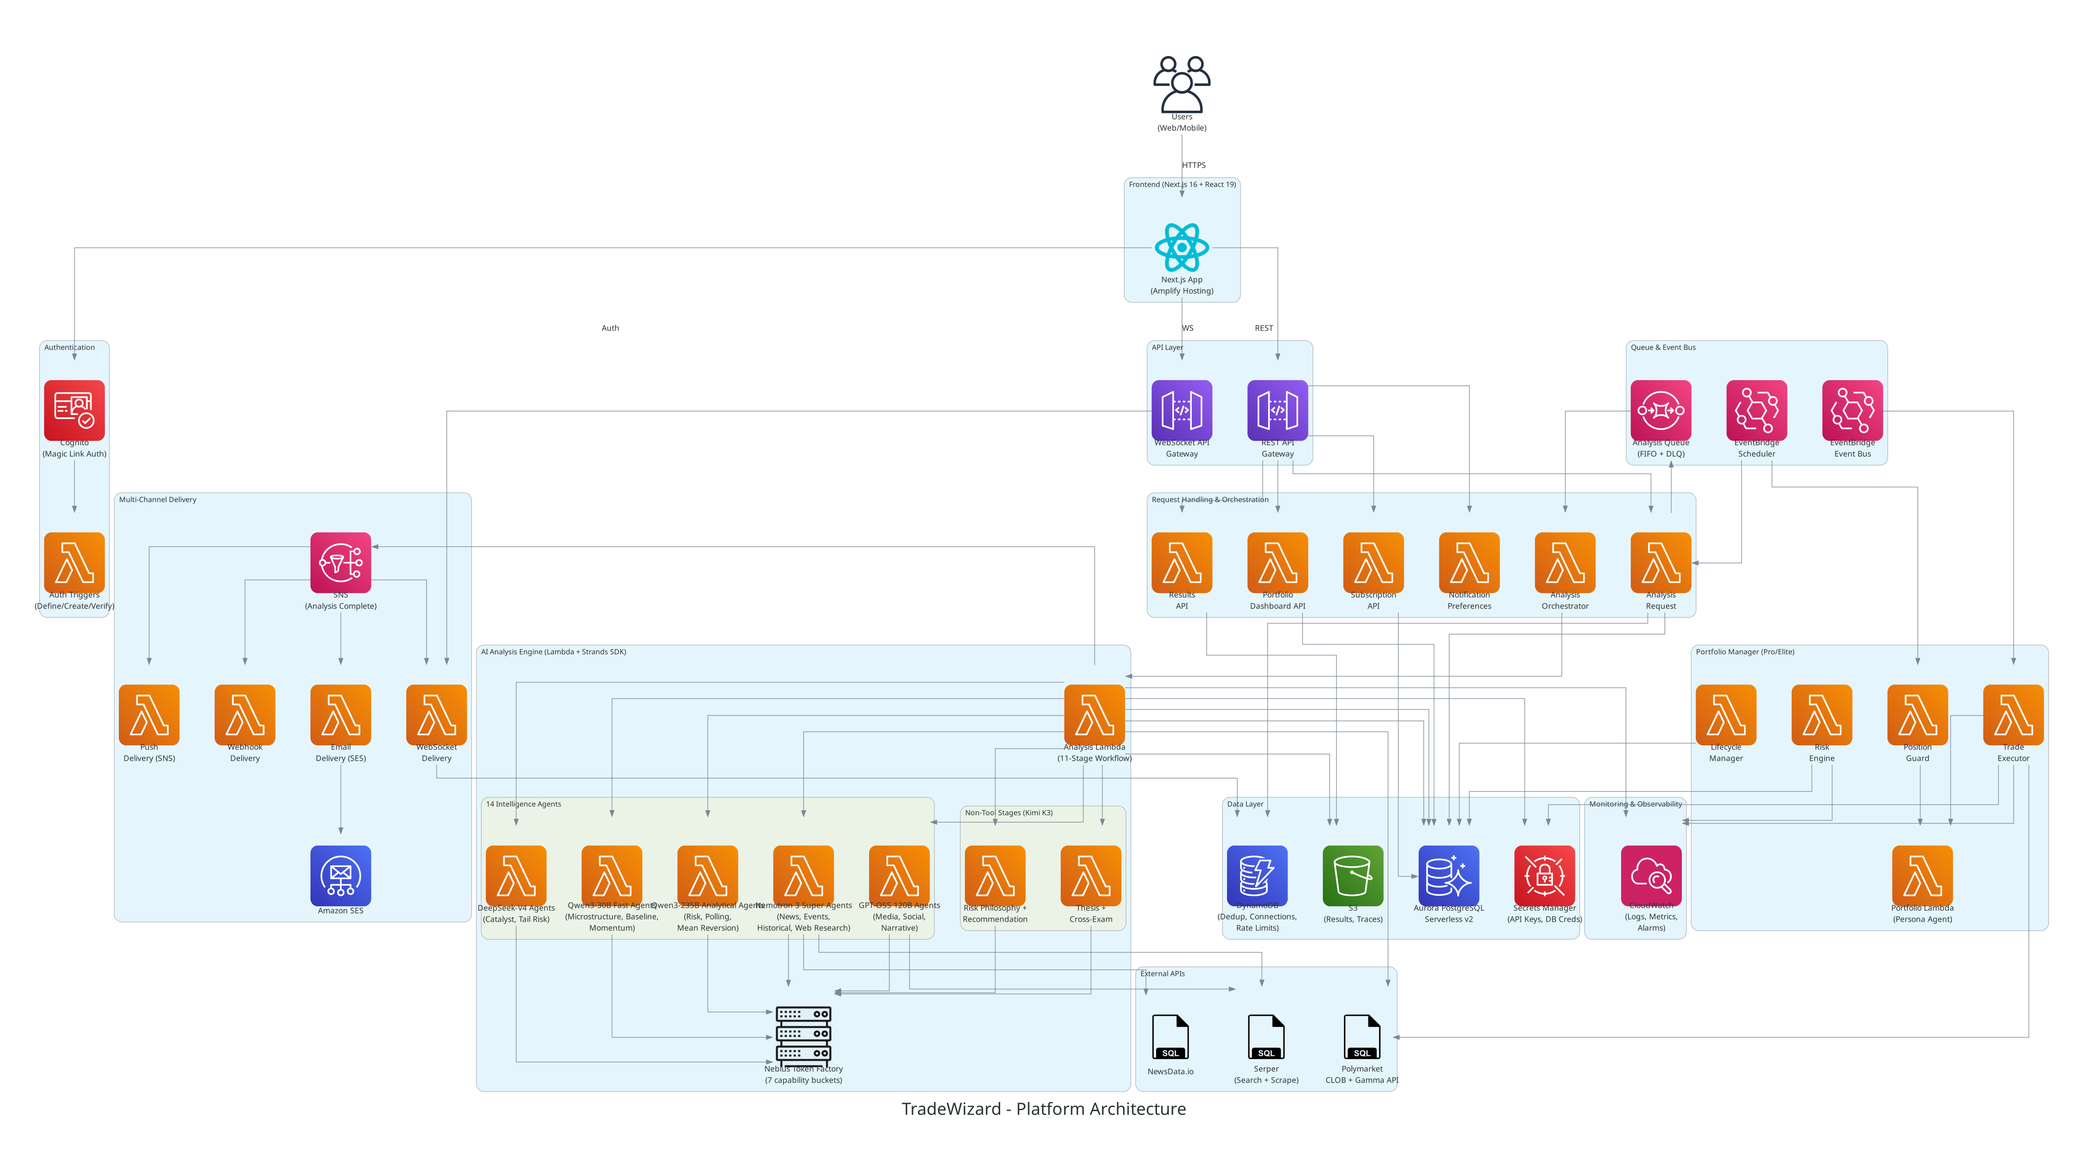
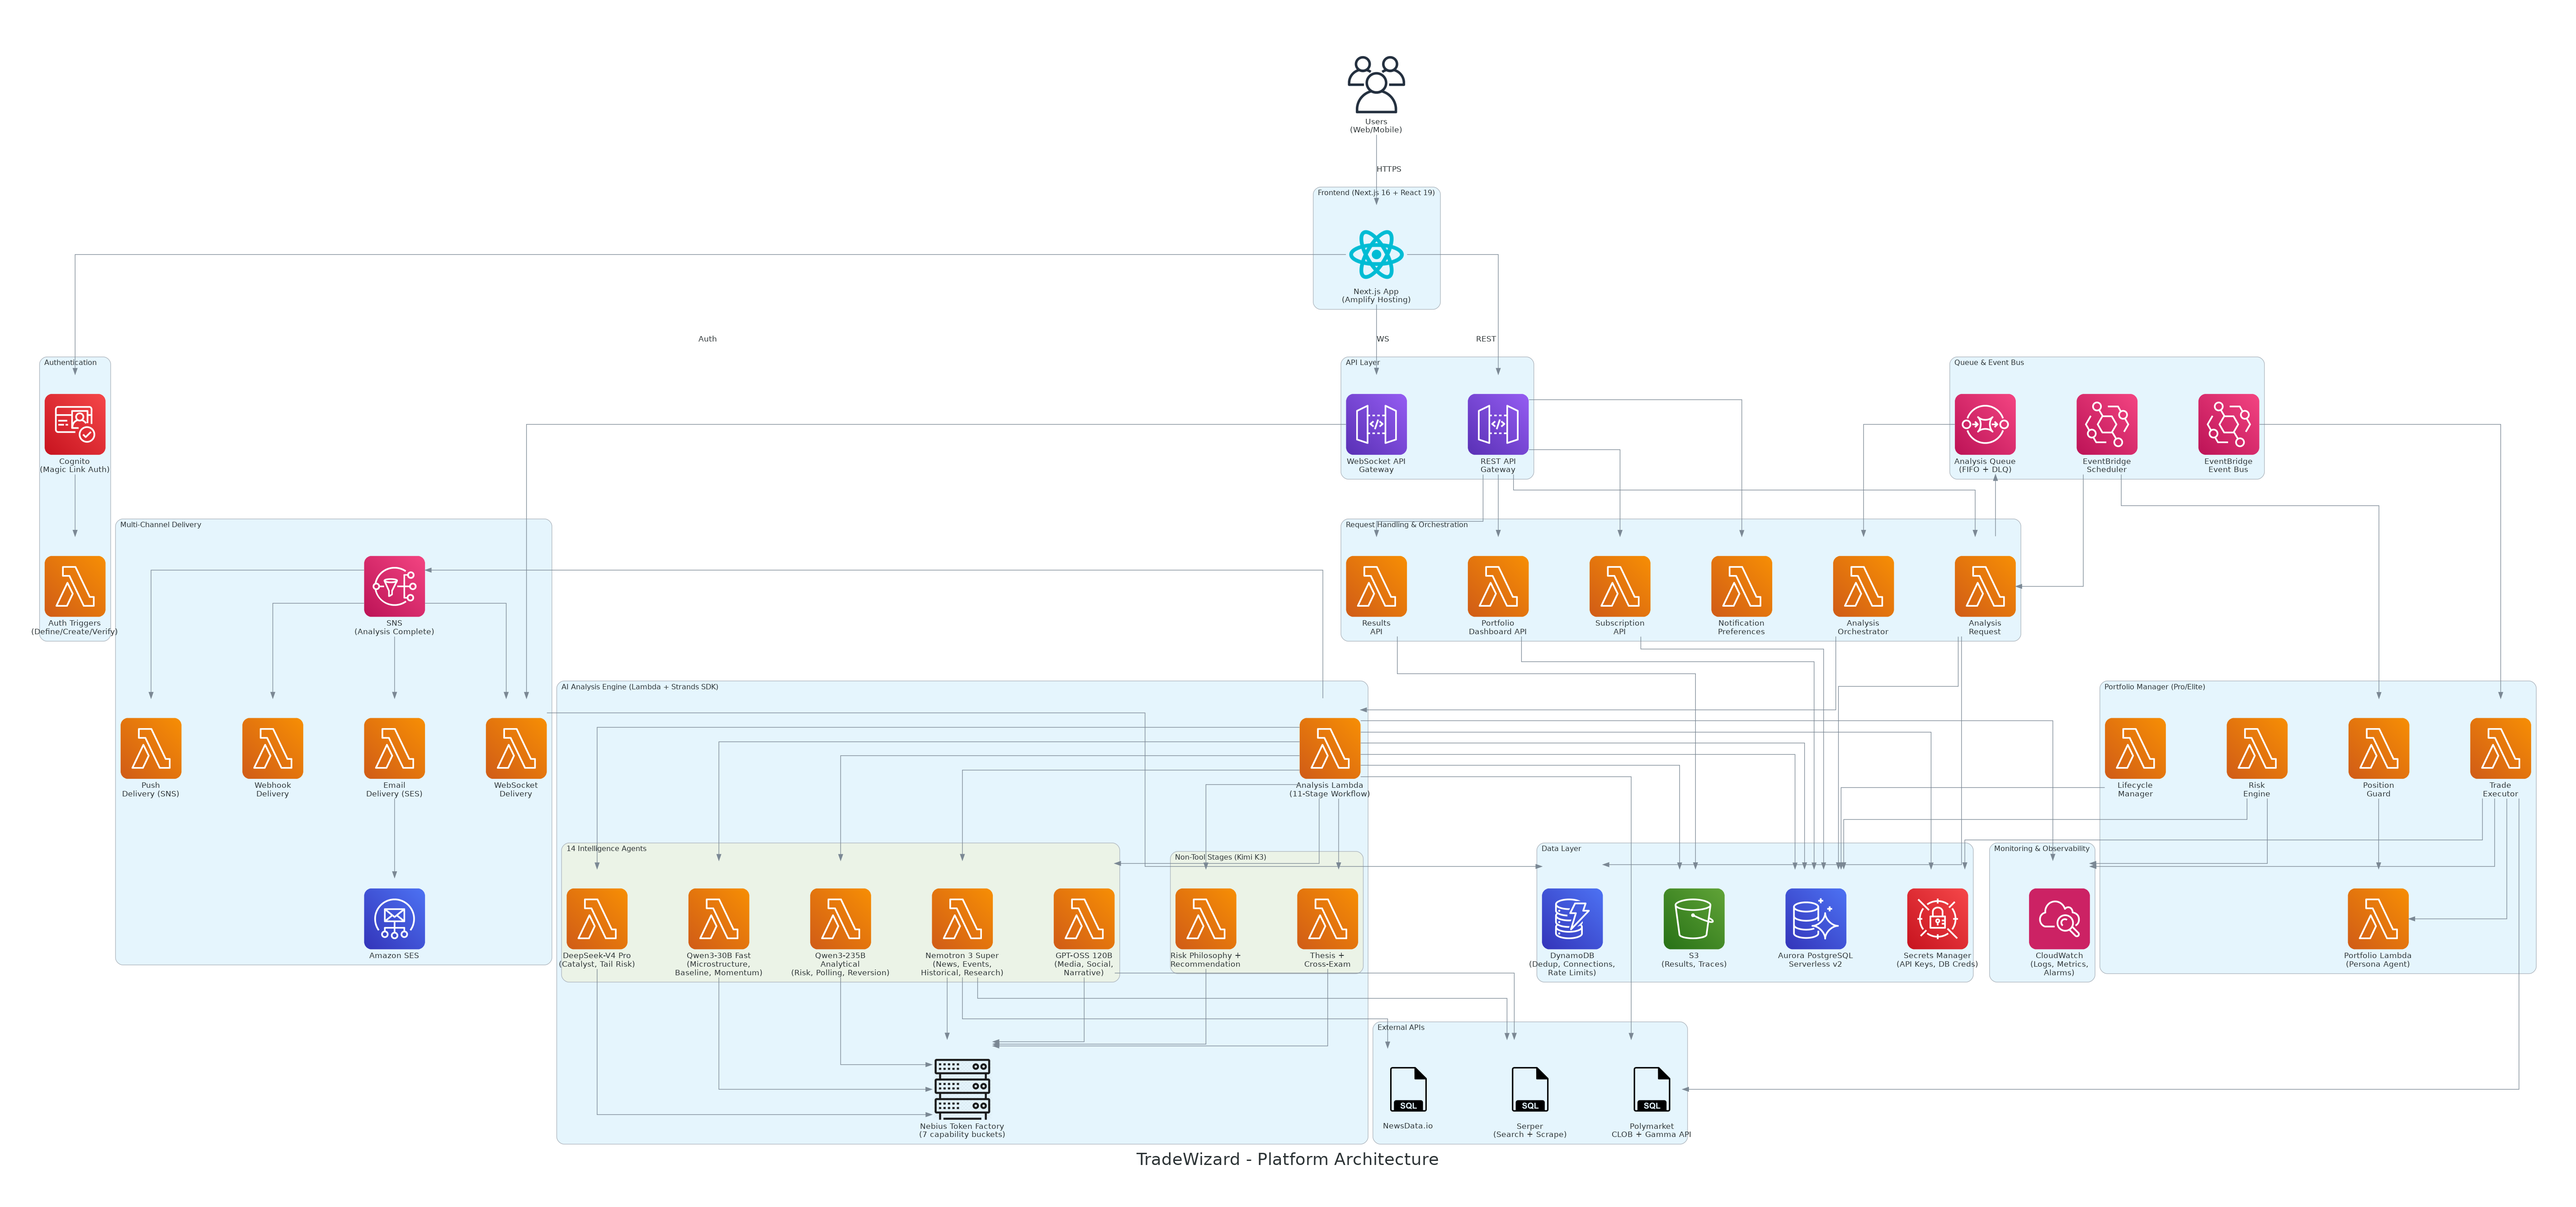
docs(diagram): re-render architecture with Nebius and fix label collisions
The inference node already read "Nebius Token Factory (7 capability buckets)",
but the rename made the agent-group labels long enough to overlap each other -
"Qwen3-235B Analytical Agents" collided with "Nemotron 3 Super Agents", and
"CloudWatch (Logs, Metrics, Alarms)" collided with "Portfolio Lambda (Persona
Agent)".

- Raise nodesep 0.8 -> 1.4 so the overflowing labels have room.
- Shorten the five agent labels ("Agents" is redundant inside the "14
  Intelligence Agents" cluster).
- Correct the stale "TradeWizard V2" docstring and state that inference is
  Nebius with no Bedrock node.

Changed region(s): [[0.0, 0.0312, 0.9974, 0.9672]]

diff --git a/docs/tradewizard-architecture.py b/docs/tradewizard-architecture.py
@@ -1,6 +1,12 @@
 """
-TradeWizard V2 - Full System Architecture Diagram
-Generated using the Python `diagrams` package.
+TradeWizard - Platform Architecture
+
+Renders docs/tradewizard-architecture.png with the Python `diagrams` package
+(needs Graphviz `dot` on PATH).
+
+Model inference is Nebius Token Factory: the agent groups and the non-tool
+stages all point at the Nebius node, and every model name is the capability
+bucket's configured Token Factory model. There is no Bedrock node.
 """
 
 from diagrams import Diagram, Cluster, Edge
@@ -23,8 +29,11 @@ graph_attr = {
     "fontsize": "28",
     "bgcolor": "white",
     "pad": "0.8",
-    "nodesep": "0.8",
-    "ranksep": "1.2",
+    # Wide node separation: diagrams renders fixed-size icons with labels that
+    # overflow horizontally, so model names like "Qwen3-235B Analytical" need
+    # room or adjacent labels collide.
+    "nodesep": "1.4",
+    "ranksep": "1.4",
     "splines": "ortho",
 }
 
@@ -73,11 +82,11 @@ with Diagram(
         analysis_lambda = Lambda("Analysis Lambda\n(11-Stage Workflow)")
 
         with Cluster("14 Intelligence Agents"):
-            agents_group_1 = Lambda("Qwen3-30B Fast Agents\n(Microstructure, Baseline,\nMomentum)")
-            agents_group_2 = Lambda("Qwen3-235B Analytical Agents\n(Risk, Polling,\nMean Reversion)")
-            agents_group_3 = Lambda("Nemotron 3 Super Agents\n(News, Events,\nHistorical, Web Research)")
-            agents_group_4 = Lambda("GPT-OSS 120B Agents\n(Media, Social,\nNarrative)")
-            agents_group_5 = Lambda("DeepSeek-V4 Agents\n(Catalyst, Tail Risk)")
+            agents_group_1 = Lambda("Qwen3-30B Fast\n(Microstructure,\nBaseline, Momentum)")
+            agents_group_2 = Lambda("Qwen3-235B\nAnalytical\n(Risk, Polling, Reversion)")
+            agents_group_3 = Lambda("Nemotron 3 Super\n(News, Events,\nHistorical, Research)")
+            agents_group_4 = Lambda("GPT-OSS 120B\n(Media, Social,\nNarrative)")
+            agents_group_5 = Lambda("DeepSeek-V4 Pro\n(Catalyst, Tail Risk)")
 
         with Cluster("Non-Tool Stages (Kimi K3)"):
             thesis = Lambda("Thesis +\nCross-Exam")
